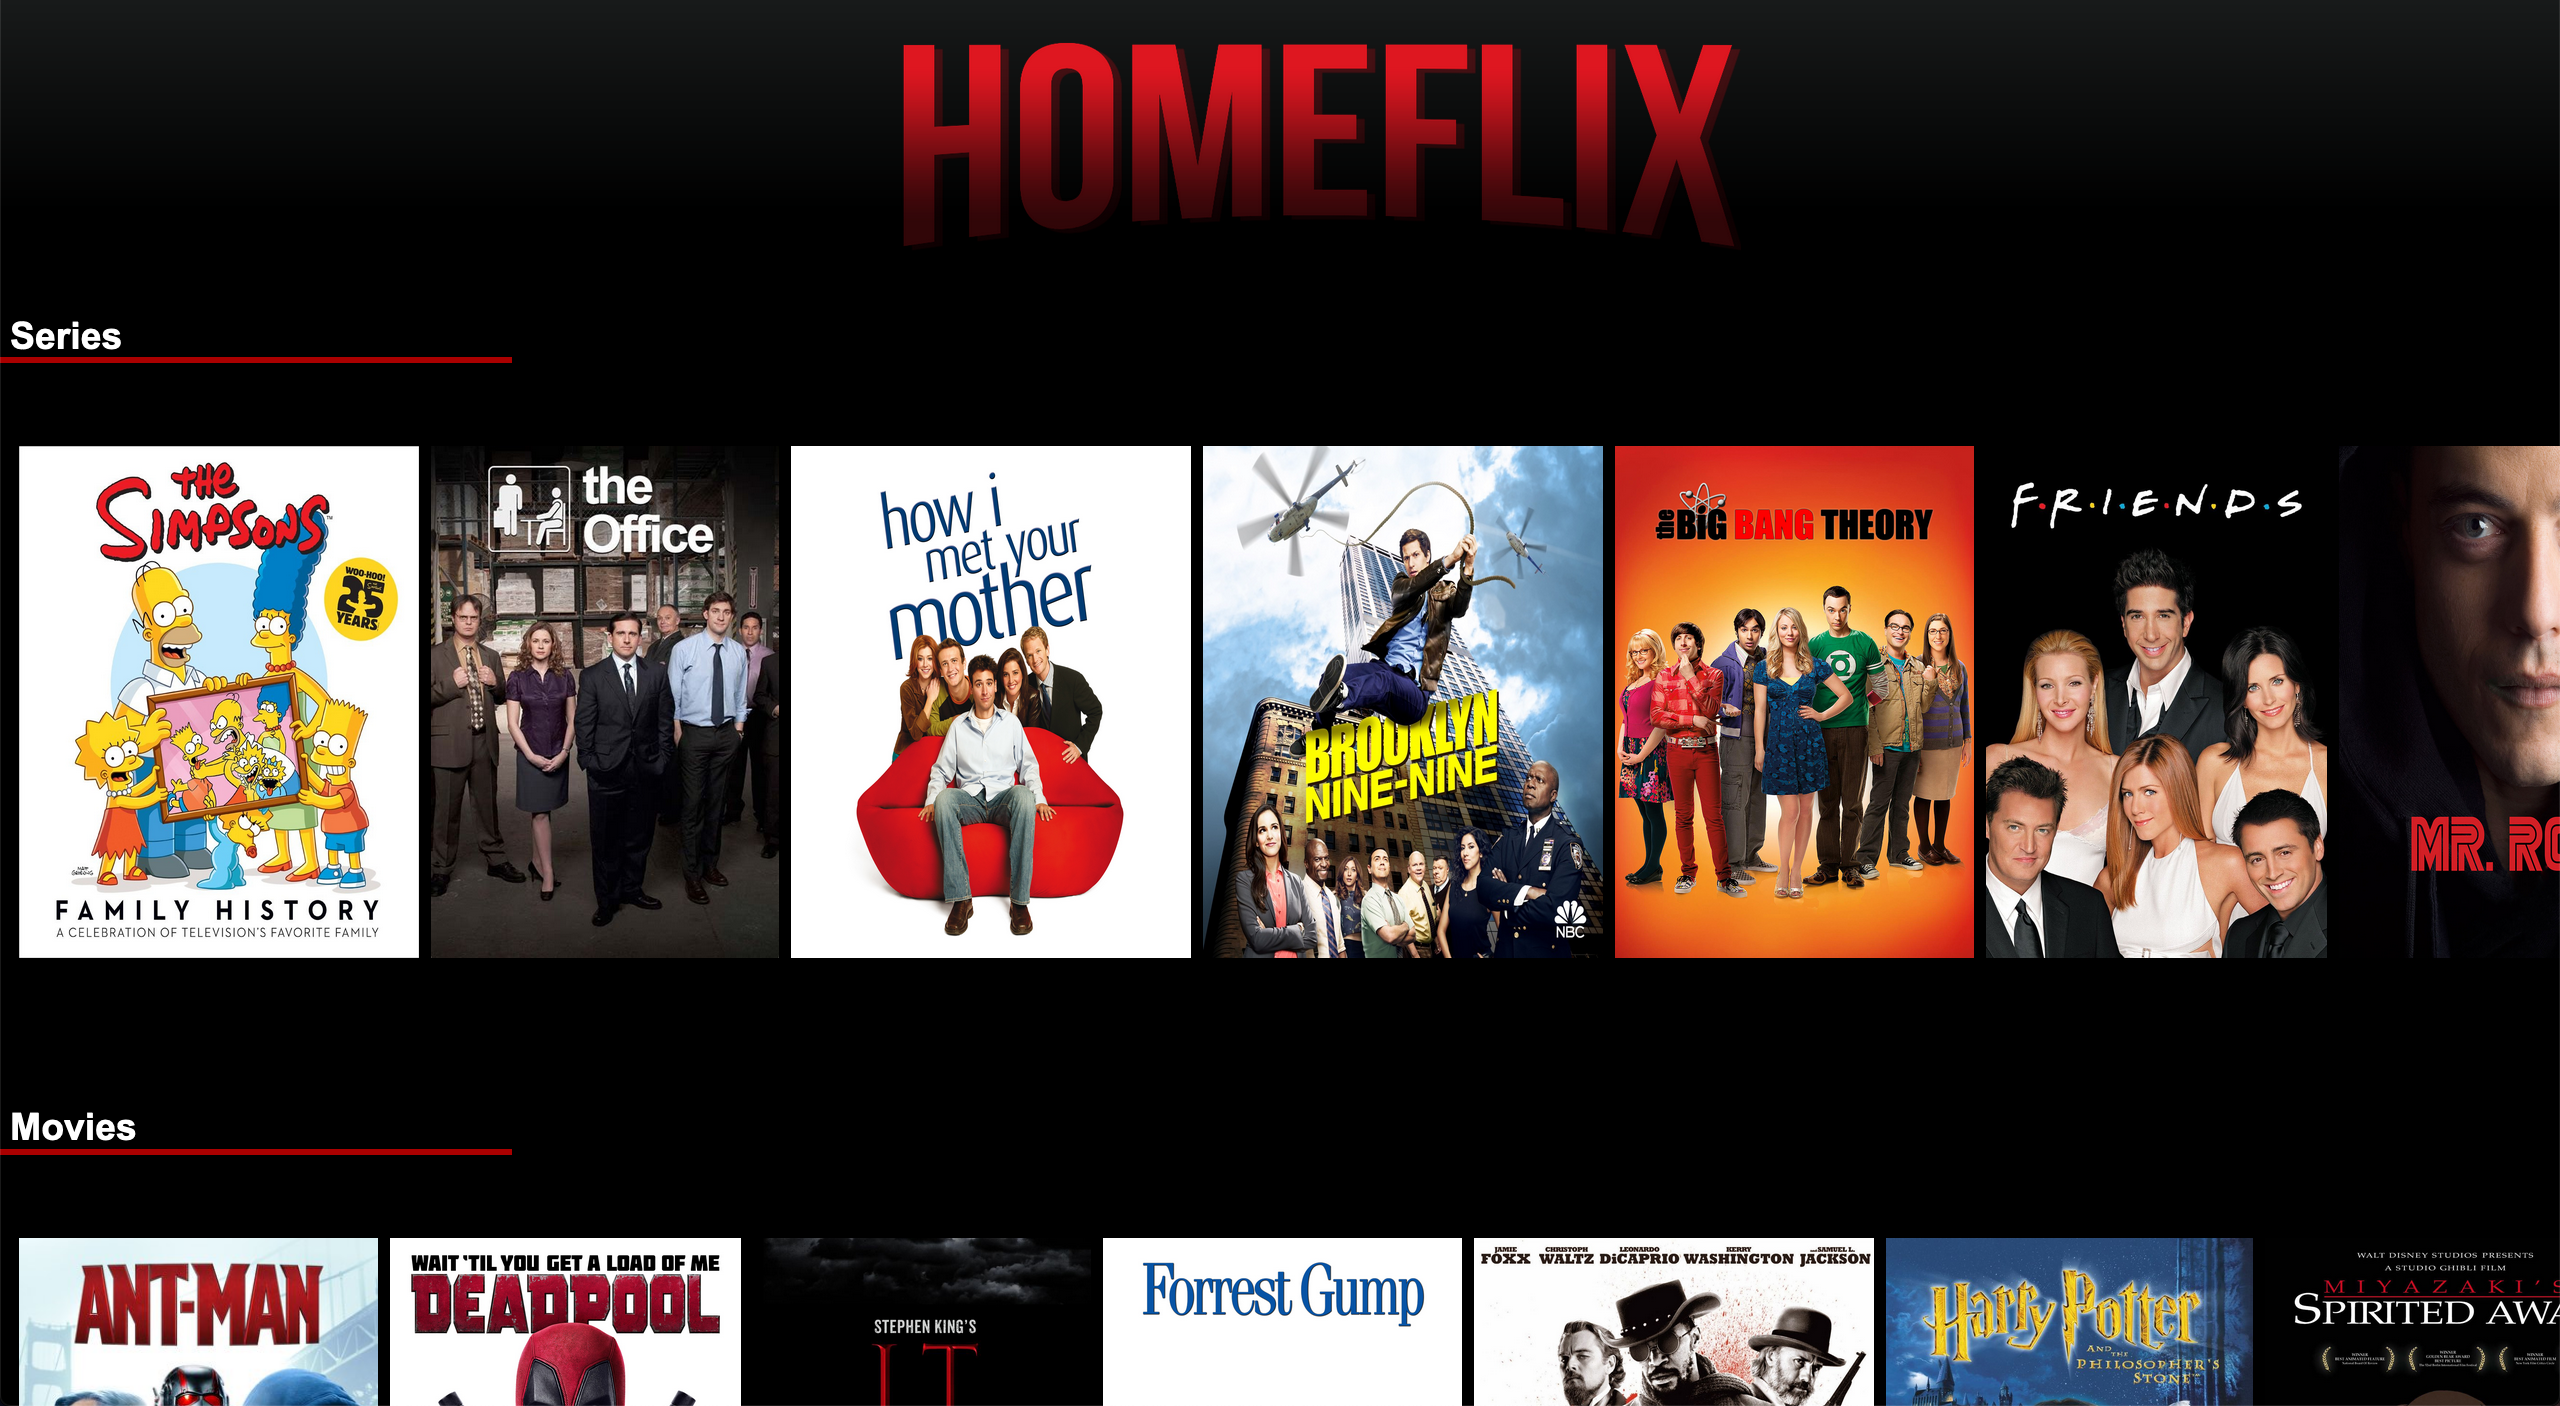
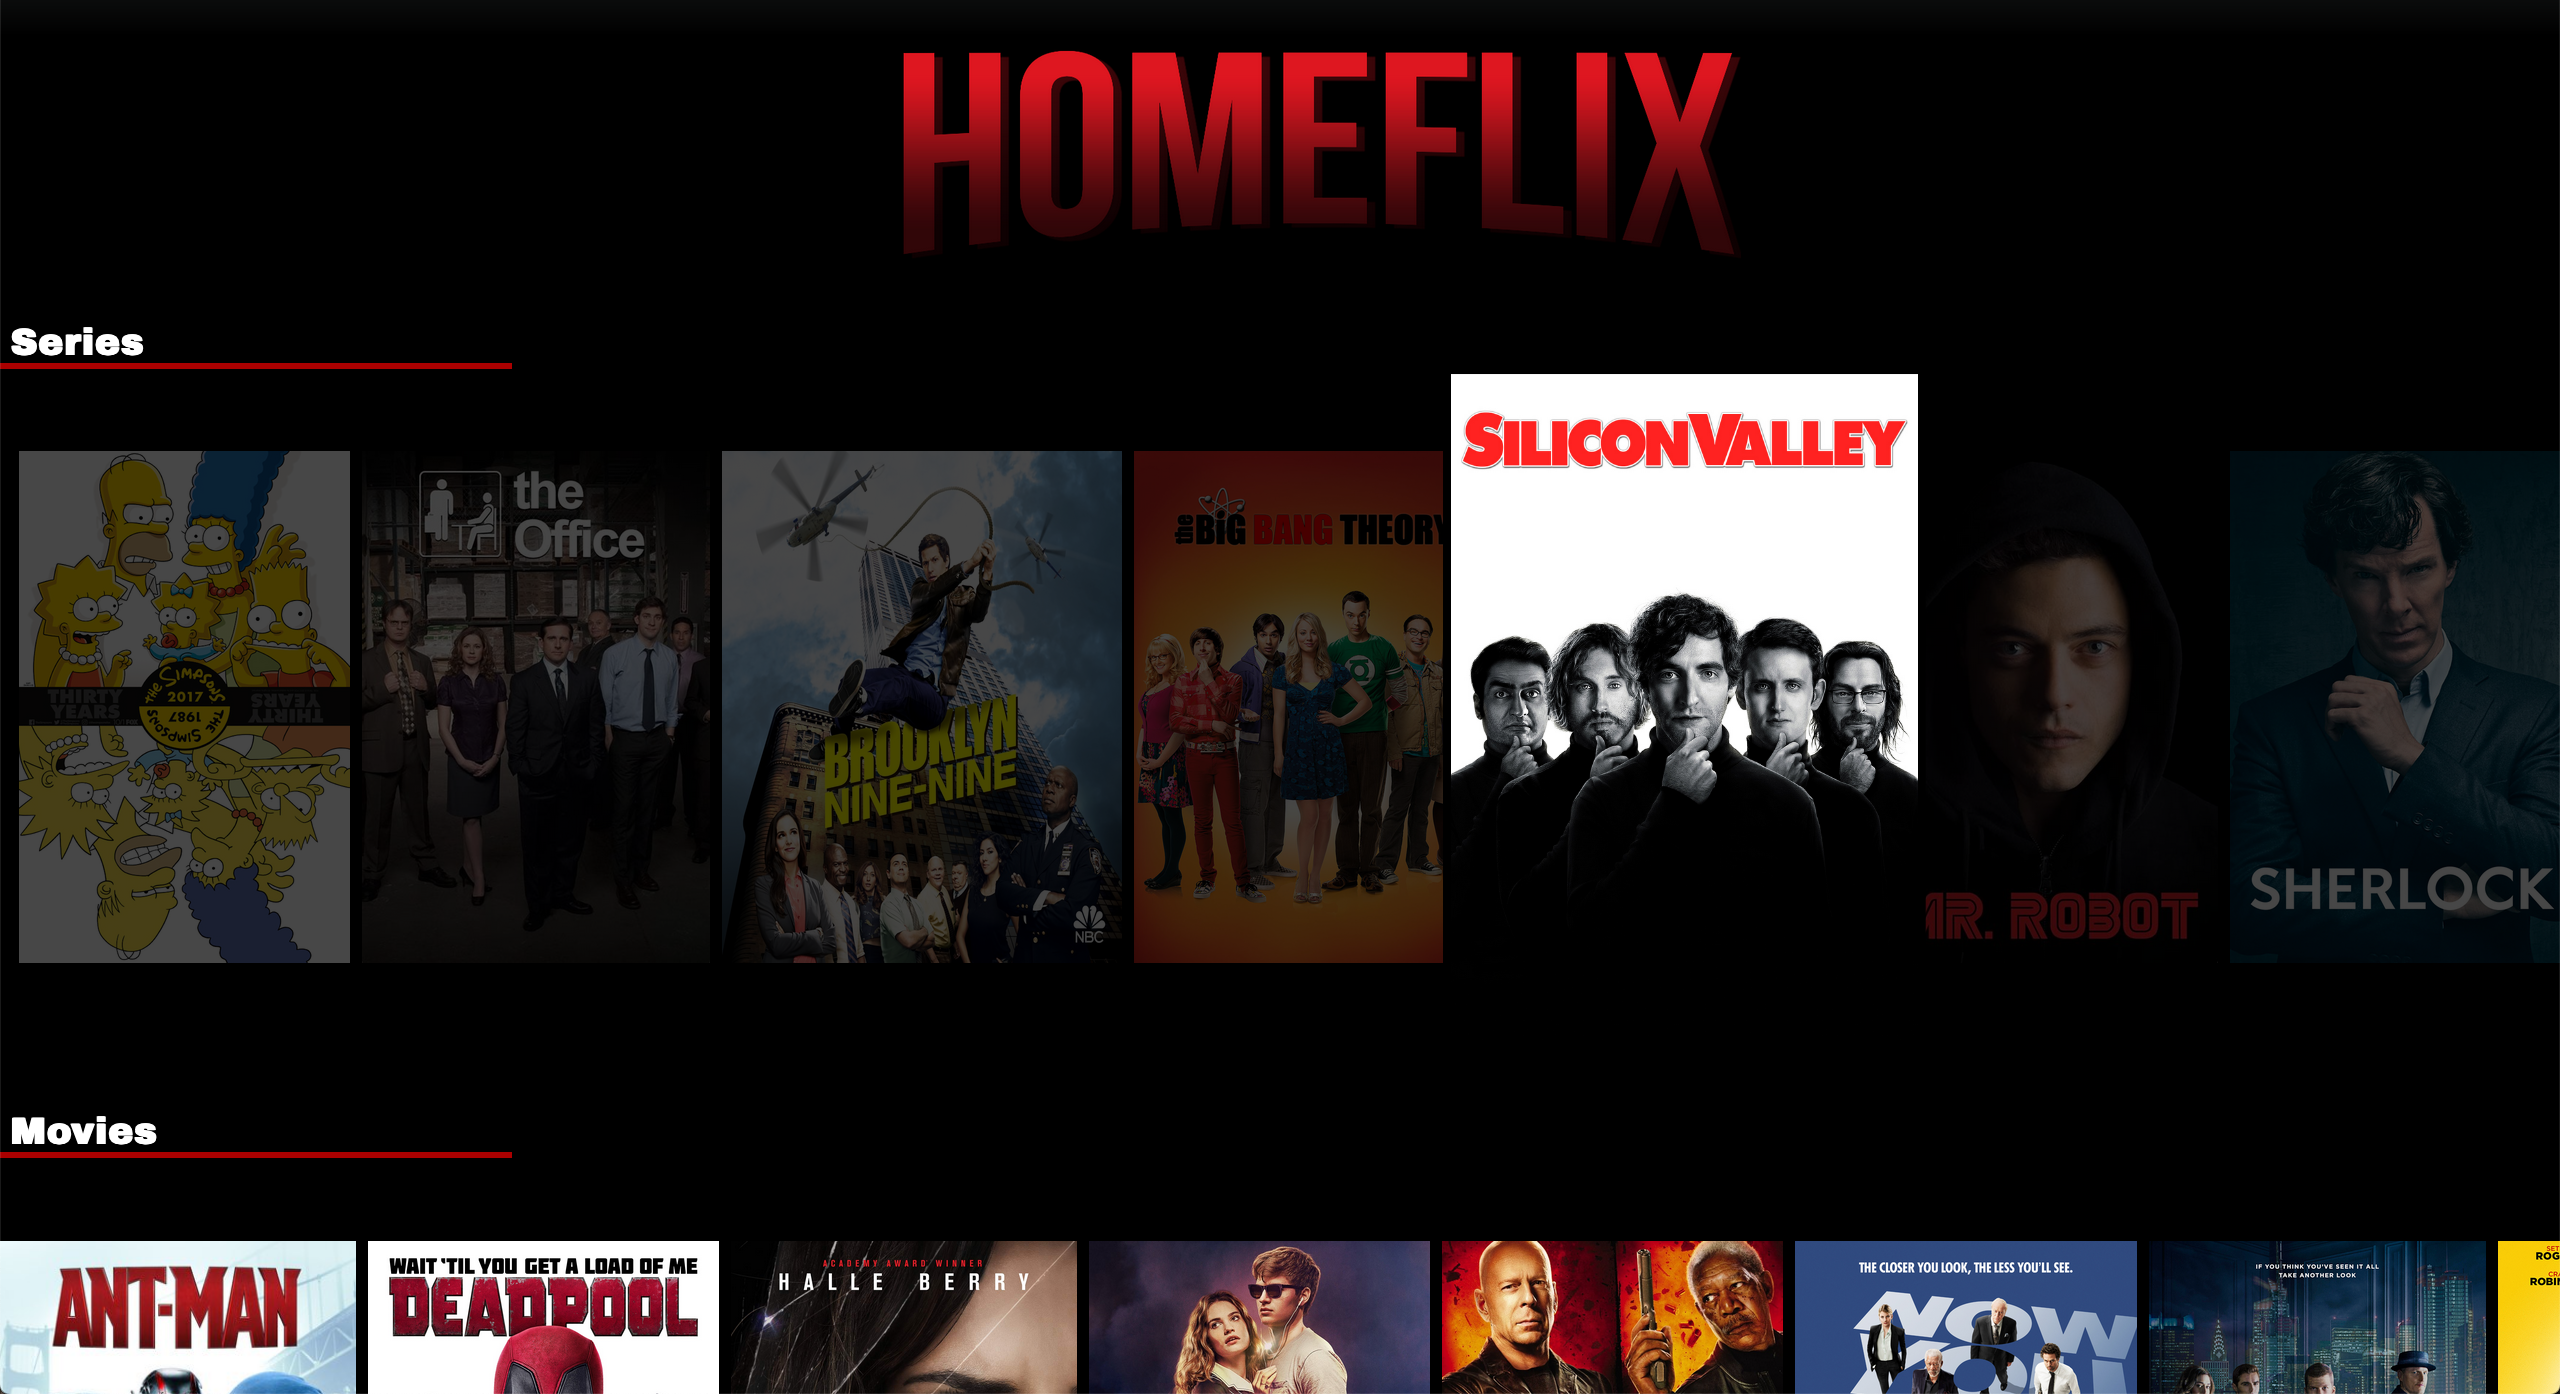
opacity effect

diff --git a/src/public/js/events.js b/src/public/js/events.js
@@ -42,12 +42,20 @@
       carousels[i].addEventListener('mouseover',evt =>{
           if(evt.target.className != "Carousel"){
               evt.target.classList.add('hover_img');
+              for(var j=0;j<evt.target.parentNode.childNodes.length;j++){
+                if(evt.target.parentNode.childNodes[j]!=evt.target){
+                  evt.target.parentNode.childNodes[j].style.opacity = 0.28;
+                }
+              }
           }
         });
 
       carousels[i].addEventListener('mouseout',evt=>{
           if(evt.target.className != "Carousel"){
             evt.target.classList.remove('hover_img');
+            for(var j=0;j<evt.target.parentNode.childNodes.length;j++){
+              evt.target.parentNode.childNodes[j].style.opacity = 1;
+            }
           }
         });
 
